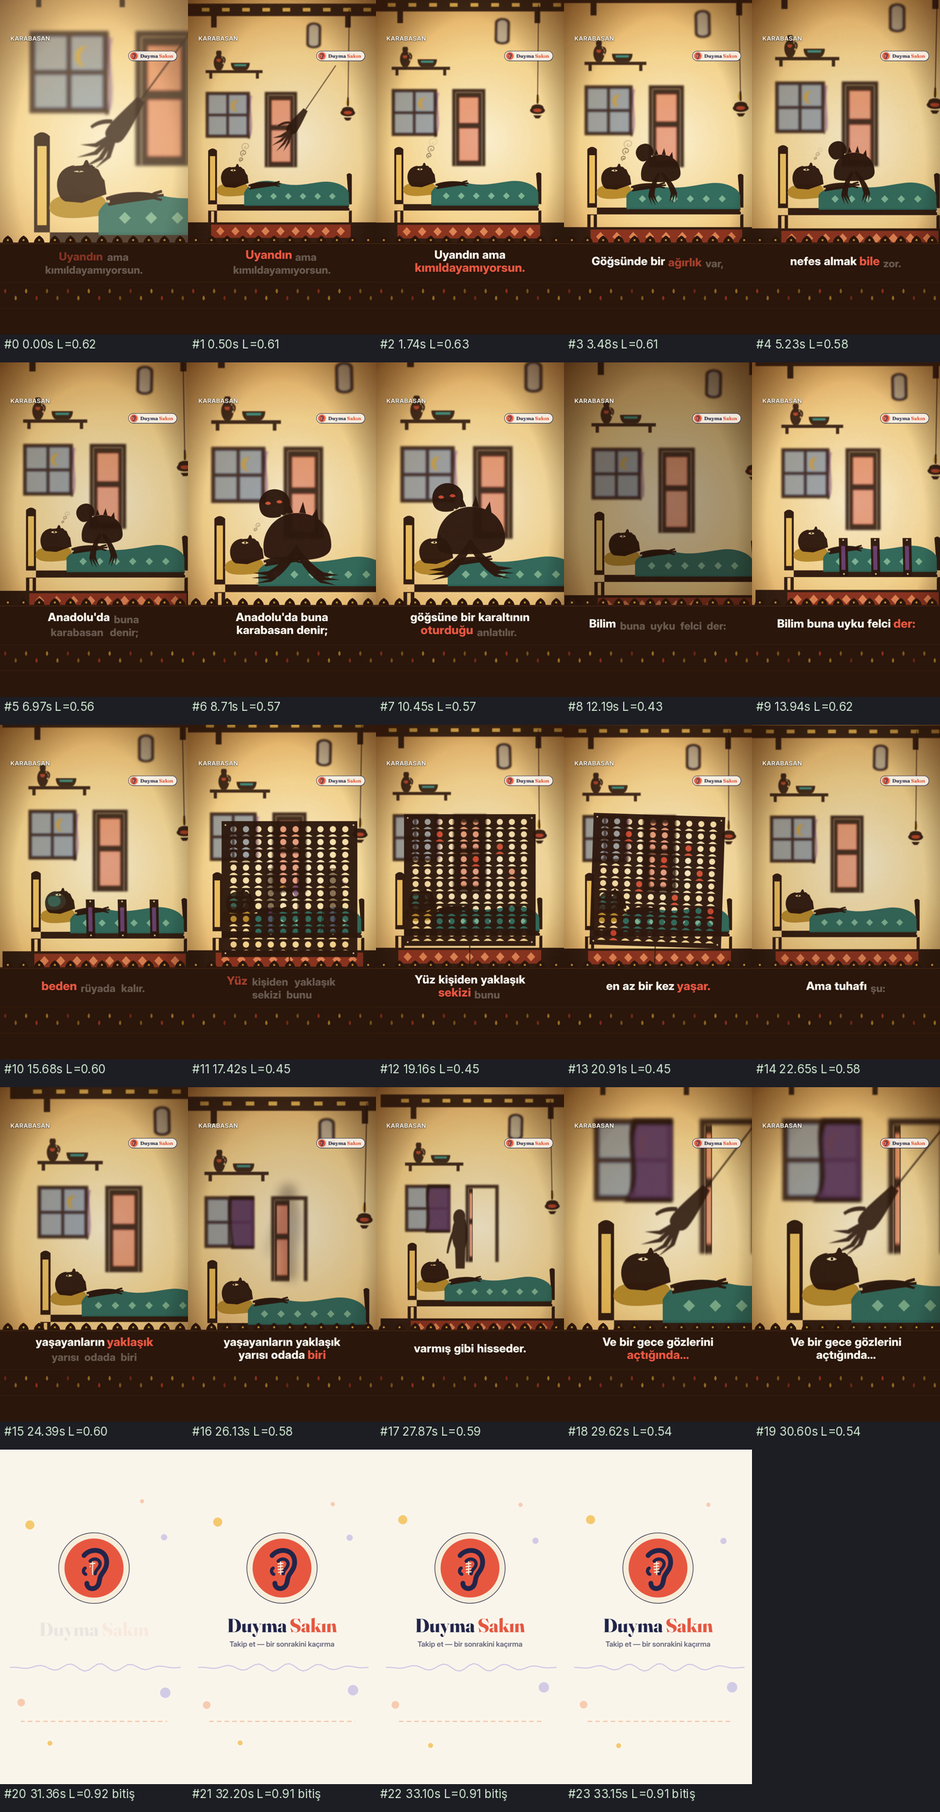
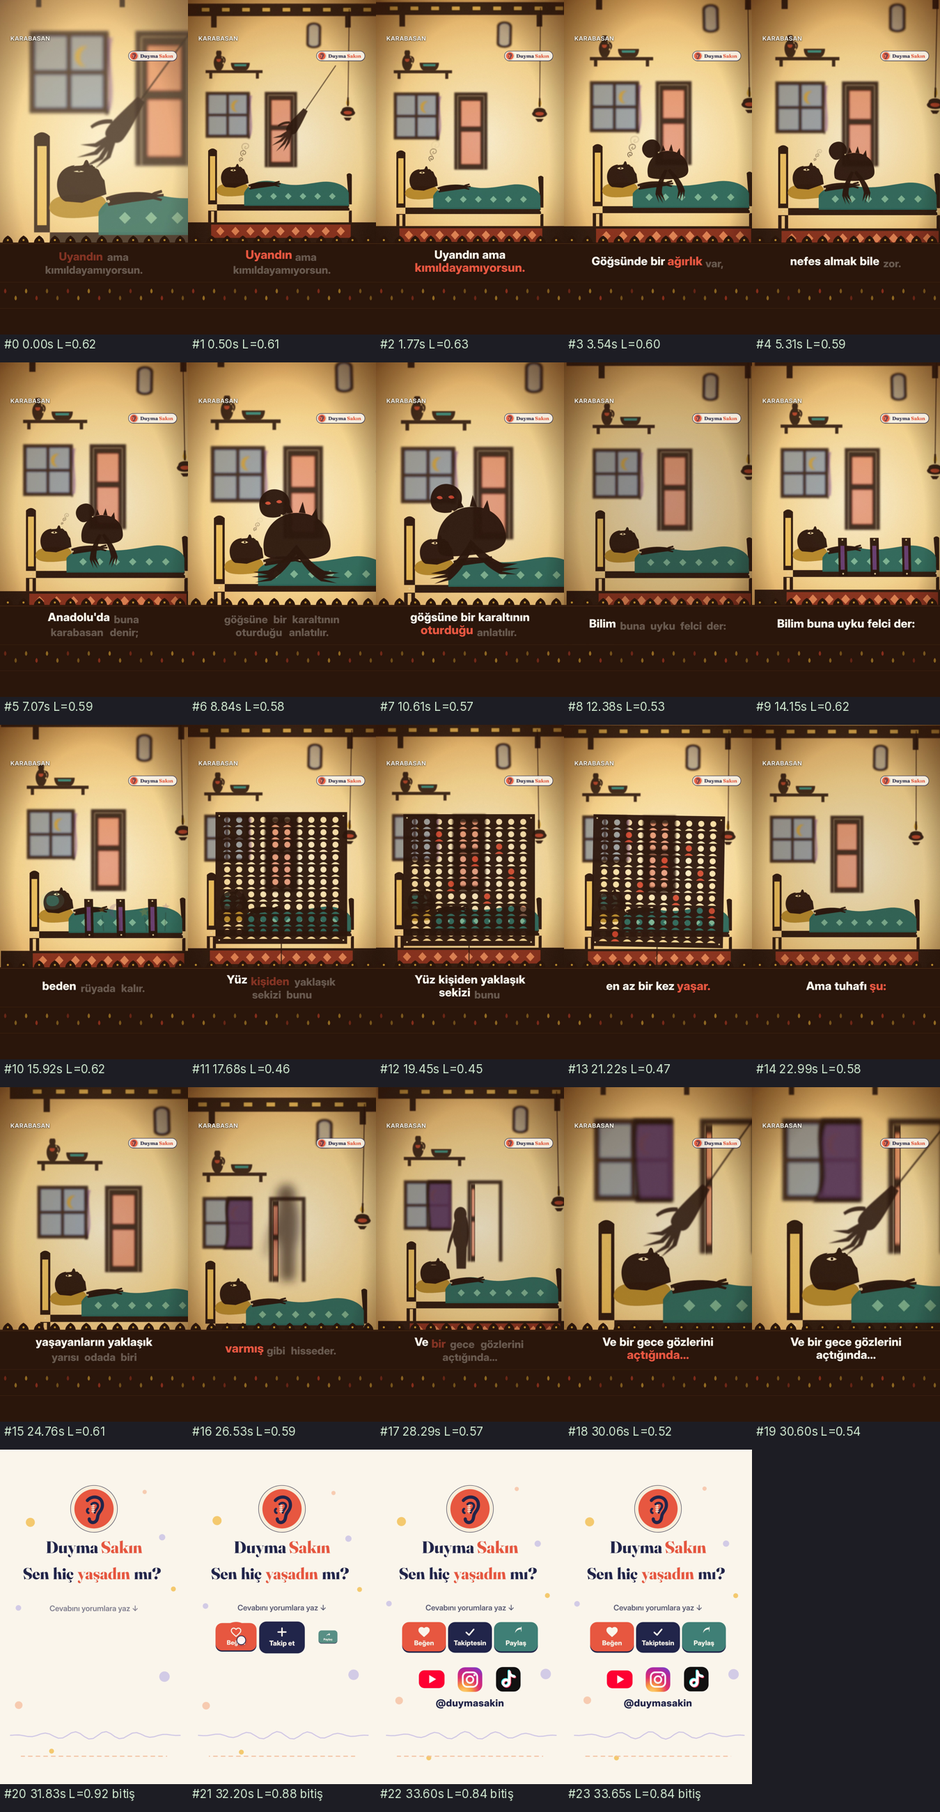
Hareketli bitiş ekranı: soru, Beğen/Takip et/Paylaş dokunuşları, YouTube/Instagram/TikTok logoları, @duymasakin
Claude-Session: https://claude.ai/code/session_01WfPggS4dh4xhzWemV5wpkW

diff --git a/uretim/src/marka/BitisEkrani.tsx b/uretim/src/marka/BitisEkrani.tsx
@@ -1,4 +1,10 @@
-// Bitiş ekranı (2,5 sn) — kanal-kimligi'ndeki sıra: zemine açılış → rozet (dikişler) → ad → "Takip et".
+// BİTİŞ EKRANI (3 sn, 90 kare) — hareketli, her videoda aynı düzen (kullanıcı kararı 25.11.2026):
+//   0-6    son kare kâğıt zemine açılır          · 0-30  rozet logo belirir, dikişler "dikilir", ad gelir
+//   16-34  SORU kelime kelime (bolum.json → bitis.soru; yoksa "Beğen, takip et, paylaş!")  · 28-40 "Cevabını yorumlara yaz"
+//   34-48  Beğen / Takip et / Paylaş düğmeleri sırayla zıplar · DOKUNMA karelerinde parmak dokunuşu (kalp dolar,
+//          + işareti ✓ olur, paylaş oku uçar) — ses: "tik" efekti aynı karelerde (bolum.json → efektler)
+//   50-72  YouTube / Instagram / TikTok logoları sırayla yükselir + @duymasakin
+// Yerleşim platform düğmelerinden uzak: içerik x 150-930, y 200-1500. Dokunan parmak düğmeden düğmeye gider.
 import React from "react";
 import { interpolate } from "remotion";
 import { FONT } from "./fontlar";
@@ -6,41 +12,161 @@ import { Logo } from "./Logo";
 import { RENK } from "./yerlesim";
 import { firla, ilerle, kenet } from "../motor/yardimci";
 
+export const DOKUNMA = [44, 52, 60]; // bitiş ekranının kendi karesi; efekt yerleşimi bununla aynı olmalı
+
 const SEKILLER = [
   { x: 160, y: 420, r: 26, c: RENK.hardal }, { x: 930, y: 520, r: 18, c: RENK.lavanta }, { x: 120, y: 1450, r: 22, c: RENK.seftali },
-  { x: 960, y: 1380, r: 30, c: RENK.lavanta }, { x: 300, y: 1700, r: 14, c: RENK.hardal }, { x: 820, y: 300, r: 12, c: RENK.seftali },
+  { x: 960, y: 1300, r: 30, c: RENK.lavanta }, { x: 300, y: 1750, r: 14, c: RENK.hardal }, { x: 820, y: 230, r: 12, c: RENK.seftali },
+  { x: 90, y: 900, r: 16, c: RENK.lavanta }, { x: 990, y: 820, r: 14, c: RENK.hardal },
 ];
 
+// --- düğme simgeleri (24x24 kutuda)
+const Kalp: React.FC<{ dolu: number }> = ({ dolu }) => (
+  <path d="M12 21 C 5 15 1 11.5 1 7.5 C 1 4.5 3.5 2 6.5 2 C 8.6 2 10.6 3.2 12 5 C 13.4 3.2 15.4 2 17.5 2 C 20.5 2 23 4.5 23 7.5 C 23 11.5 19 15 12 21 Z"
+    fill={dolu > 0.5 ? RENK.kagit : "none"} stroke={RENK.kagit} strokeWidth={2.4} strokeLinejoin="round" />
+);
+const Arti: React.FC<{ t: number }> = ({ t }) =>
+  t < 0.5 ? <path d="M12 4 V20 M4 12 H20" stroke={RENK.kagit} strokeWidth={3} strokeLinecap="round" />
+    : <path d="M4 12.5 L10 18 L20 6" fill="none" stroke={RENK.kagit} strokeWidth={3.2} strokeLinecap="round" strokeLinejoin="round" />;
+const Paylas: React.FC<{ t: number }> = ({ t }) => (
+  <g transform={`translate(${t * 6} ${-t * 6})`}>
+    <path d="M4 20 C 5 12 10 8 17 8 V3 L23 10 L17 17 V12 C 11 12 7 14 4 20 Z" fill={RENK.kagit} />
+  </g>
+);
+
+// --- platform logoları (sade, kodla çizilmiş; 100x100 kutu)
+const YouTube = () => (
+  <g><rect x={4} y={18} width={92} height={64} rx={20} fill="#FF0033" /><path d="M41 35 L66 50 L41 65 Z" fill="#fff" /></g>
+);
+const Instagram = () => (
+  <g>
+    <defs>
+      <radialGradient id="ig-g" cx="25%" cy="105%" r="130%">
+        <stop offset="0%" stopColor="#FFD776" /><stop offset="25%" stopColor="#F9A040" /><stop offset="50%" stopColor="#E1306C" />
+        <stop offset="75%" stopColor="#B5279C" /><stop offset="100%" stopColor="#5B4FE0" />
+      </radialGradient>
+    </defs>
+    <rect x={6} y={6} width={88} height={88} rx={26} fill="url(#ig-g)" />
+    <rect x={24} y={24} width={52} height={52} rx={16} fill="none" stroke="#fff" strokeWidth={6} />
+    <circle cx={50} cy={50} r={12} fill="none" stroke="#fff" strokeWidth={6} /><circle cx={66} cy={34} r={4} fill="#fff" />
+  </g>
+);
+const TikTok = () => {
+  const nota = (dx: number, dy: number, c: string) => (
+    <g transform={`translate(${dx} ${dy})`} fill="none" stroke={c} strokeWidth={9} strokeLinecap="round">
+      <path d="M54 22 V62" /><circle cx={42} cy={63} r={11} /><path d="M54 24 C 56 33 63 39 72 40" />
+    </g>
+  );
+  return (
+    <g><rect x={6} y={6} width={88} height={88} rx={24} fill="#111" />{nota(-2, -2, "#25F4EE")}{nota(2, 2, "#FE2C55")}{nota(0, 0, "#fff")}</g>
+  );
+};
+
+const DW = 252, DH = 168;
+const DUGME_X = [150, 414, 678]; // sol kenarlar (genişlik 252, aralık 12) → 150..930
+
+const Dugme: React.FC<{ f: number; bas: number; dokun: number; renk: string; yazi: string; ikon: (t: number) => React.ReactNode }> = ({ f, bas, dokun, renk, yazi, ikon }) => {
+  const g = ilerle(f, bas, bas + 10, firla);
+  const t = ilerle(f, dokun, dokun + 4);
+  const bas2 = f >= dokun && f < dokun + 6 ? 0.92 + 0.08 * ((f - dokun) / 6) : 1; // basılma
+  const halka = ilerle(f, dokun, dokun + 12);
+  return (
+    <div style={{ position: "relative", width: DW, height: DH, transform: `scale(${g * bas2})`, opacity: Math.min(1, g * 2) }}>
+      {halka > 0 && halka < 1 ? (
+        <div style={{ position: "absolute", left: DW / 2 - 90 * (1 + halka), top: DH / 2 - 90 * (1 + halka), width: 180 * (1 + halka), height: 180 * (1 + halka),
+          borderRadius: "50%", border: `8px solid ${renk}`, opacity: 1 - halka }} />
+      ) : null}
+      <div style={{ position: "absolute", inset: 0, background: renk, borderRadius: 40, display: "flex", flexDirection: "column", alignItems: "center",
+        justifyContent: "center", gap: 6, boxShadow: `0 8px 0 ${RENK.lacivert}` }}>
+        <svg width={64} height={64} viewBox="0 0 24 24">{ikon(t)}</svg>
+        <span style={{ fontFamily: FONT.metin, fontWeight: 800, fontSize: 38, color: RENK.kagit, whiteSpace: "nowrap" }}>{yazi}</span>
+      </div>
+    </div>
+  );
+};
+
 /** f: bitiş ekranının kendi karesi (0'dan başlar). */
-export const BitisEkrani: React.FC<{ f: number }> = ({ f }) => {
+export const BitisEkrani: React.FC<{ f: number; soru?: string; vurgu?: string }> = ({ f, soru, vurgu }) => {
   const zemin = interpolate(f, [0, 6], [0, 1], kenet);
-  const logo = ilerle(f, 6, 22, firla);
-  const dikis = ilerle(f, 12, 36);
-  const ad = ilerle(f, 18, 30);
-  const takip = ilerle(f, 30, 42);
+  const logo = ilerle(f, 0, 14, firla);
+  const dikis = ilerle(f, 10, 30);
+  const ad = ilerle(f, 10, 22);
+  const kelimeler = (soru ?? "Beğen, takip et, paylaş!").split(" ");
+  const alt = ilerle(f, 28, 40);
+  const handle = ilerle(f, 62, 72);
   return (
     <div style={{ position: "absolute", inset: 0, background: RENK.kagit, opacity: zemin }}>
       <svg width={1080} height={1920} style={{ position: "absolute", inset: 0 }}>
         {SEKILLER.map((s, i) => (
-          <circle key={i} cx={s.x + Math.sin(f * 0.05 + i) * 14} cy={s.y + Math.cos(f * 0.04 + i * 2) * 18} r={s.r} fill={s.c} opacity={0.8} />
+          <circle key={i} cx={s.x + Math.sin(f * 0.06 + i) * 16} cy={s.y + Math.cos(f * 0.05 + i * 2) * 20} r={s.r} fill={s.c} opacity={0.8} />
         ))}
-        {/* ses dalgası deseni */}
-        <path d={Array.from({ length: 40 }, (_, i) => `${i ? "L" : "M"}${60 + i * 25},${1250 + Math.sin(i * 0.9 + f * 0.25) * 22 * Math.sin((i / 39) * Math.PI)}`).join(" ")}
+        <path d={Array.from({ length: 40 }, (_, i) => `${i ? "L" : "M"}${60 + i * 25},${1640 + Math.sin(i * 0.9 + f * 0.3) * 22 * Math.sin((i / 39) * Math.PI)}`).join(" ")}
           fill="none" stroke={RENK.lavanta} strokeWidth={6} strokeLinecap="round" opacity={0.9} />
-        {/* dikiş çizgisi */}
-        <path d="M120 1560 L960 1560" stroke={RENK.seftali} strokeWidth={6} strokeDasharray="26 18" strokeDashoffset={-f * 2} />
+        <path d="M120 1760 L960 1760" stroke={RENK.seftali} strokeWidth={6} strokeDasharray="26 18" strokeDashoffset={-f * 2.5} />
       </svg>
-      <div style={{ position: "absolute", left: 0, right: 0, top: 470, display: "flex", justifyContent: "center",
-        transform: `scale(${0.8 + 0.2 * logo})`, opacity: Math.min(1, logo * 1.4) }}>
-        <Logo boyut={420} dikis={dikis} />
+      {/* rozet + ad */}
+      <div style={{ position: "absolute", left: 0, right: 0, top: 200, display: "flex", justifyContent: "center",
+        transform: `scale(${0.7 + 0.3 * logo}) rotate(${(1 - logo) * -20}deg)`, opacity: Math.min(1, logo * 1.5) }}>
+        <Logo boyut={280} dikis={dikis} />
       </div>
-      <div style={{ position: "absolute", left: 0, right: 0, top: 940, textAlign: "center", fontFamily: FONT.baslik, fontWeight: 800,
-        fontSize: 110, opacity: ad, transform: `translateY(${(1 - ad) * 24}px)` }}>
+      <div style={{ position: "absolute", left: 0, right: 0, top: 500, textAlign: "center", fontFamily: FONT.baslik, fontWeight: 800,
+        fontSize: 96, opacity: ad, transform: `translateY(${(1 - ad) * 20}px)` }}>
         <span style={{ color: RENK.lacivert }}>Duyma </span><span style={{ color: RENK.mercan }}>Sakın</span>
       </div>
-      <div style={{ position: "absolute", left: 0, right: 0, top: 1090, textAlign: "center", fontFamily: FONT.metin, fontWeight: 600,
-        fontSize: 42, color: RENK.lacivert, opacity: 0.7 * takip }}>
-        Takip et — bir sonrakini kaçırma
+      {/* soru */}
+      <div style={{ position: "absolute", left: 120, right: 120, top: 660, textAlign: "center", fontFamily: FONT.baslik, fontWeight: 800,
+        fontSize: 92, lineHeight: 1.1, color: RENK.lacivert }}>
+        {kelimeler.map((k, i) => {
+          const t = ilerle(f, 16 + i * 3, 24 + i * 3, firla);
+          const v = vurgu && k.toLocaleLowerCase("tr-TR").startsWith(vurgu.toLocaleLowerCase("tr-TR"));
+          return <span key={i} style={{ display: "inline-block", marginRight: "0.25em", color: v ? RENK.mercan : RENK.lacivert,
+            opacity: Math.min(1, t * 1.5), transform: `translateY(${(1 - t) * 40}px) scale(${0.6 + 0.4 * t})` }}>{k}</span>;
+        })}
+      </div>
+      {soru ? (
+        <div style={{ position: "absolute", left: 0, right: 0, top: 880, textAlign: "center", fontFamily: FONT.metin, fontWeight: 600,
+          fontSize: 44, color: RENK.lacivert, opacity: 0.75 * alt, transform: `translateY(${(1 - alt) * 16}px)` }}>
+          Cevabını yorumlara yaz ↓
+        </div>
+      ) : null}
+      {/* eylem düğmeleri */}
+      <div style={{ position: "absolute", left: 150, width: 780, top: 990, display: "flex", justifyContent: "space-between" }}>
+        <Dugme f={f} bas={34} dokun={DOKUNMA[0]} renk={RENK.mercan} yazi="Beğen" ikon={(t) => <Kalp dolu={t} />} />
+        <Dugme f={f} bas={39} dokun={DOKUNMA[1]} renk={RENK.lacivert} yazi={f >= DOKUNMA[1] + 2 ? "Takiptesin" : "Takip et"} ikon={(t) => <Arti t={t} />} />
+        <Dugme f={f} bas={44} dokun={DOKUNMA[2]} renk={RENK.teal} yazi="Paylaş" ikon={(t) => <Paylas t={t} />} />
+      </div>
+      {/* dokunan parmak: düğmeden düğmeye gider, DOKUNMA karelerinde basar */}
+      {(() => {
+        if (f < DOKUNMA[0] - 8 || f > DOKUNMA[2] + 10) return null;
+        const hedef = (k: number) => ({ x: DUGME_X[k] + DW * 0.62, y: 990 + DH * 0.62 });
+        let p = hedef(0);
+        for (let k = 1; k < 3; k++) {
+          const t = ilerle(f, DOKUNMA[k - 1] + 2, DOKUNMA[k] - 1);
+          const a = hedef(k - 1), b = hedef(k);
+          if (f > DOKUNMA[k - 1] + 2) p = { x: a.x + (b.x - a.x) * t, y: a.y + (b.y - a.y) * t - Math.sin(t * Math.PI) * 40 };
+        }
+        const gir = ilerle(f, DOKUNMA[0] - 8, DOKUNMA[0]);
+        const bas = DOKUNMA.some((d) => f >= d && f < d + 4) ? 0.8 : 1;
+        const cik = 1 - ilerle(f, DOKUNMA[2] + 4, DOKUNMA[2] + 10);
+        return <div style={{ position: "absolute", left: p.x - 34, top: p.y - 34 + (1 - gir) * 120, width: 68, height: 68, borderRadius: "50%",
+          background: "rgba(255,255,255,0.92)", border: `5px solid ${RENK.lacivert}`, boxShadow: "0 6px 14px rgba(34,38,74,0.35)",
+          transform: `scale(${bas})`, opacity: Math.min(gir, cik) }} />;
+      })()}
+      {/* sosyal medya logoları */}
+      <div style={{ position: "absolute", left: 0, right: 0, top: 1236, display: "flex", justifyContent: "center", gap: 60 }}>
+        {[YouTube, Instagram, TikTok].map((L, i) => {
+          const t = ilerle(f, 50 + i * 5, 62 + i * 5, firla);
+          return (
+            <svg key={i} width={160} height={160} viewBox="0 0 100 100" style={{ opacity: Math.min(1, t * 1.6),
+              transform: `translateY(${(1 - t) * 80 + Math.sin(f * 0.15 + i) * 4}px) rotate(${(1 - t) * (i - 1) * 20}deg)` }}>
+              <L />
+            </svg>
+          );
+        })}
+      </div>
+      <div style={{ position: "absolute", left: 0, right: 0, top: 1420, textAlign: "center", fontFamily: FONT.metin, fontWeight: 800,
+        fontSize: 56, letterSpacing: 1, color: RENK.lacivert, opacity: handle, transform: `translateY(${(1 - handle) * 16}px)` }}>
+        @duymasakin
       </div>
     </div>
   );

diff --git a/uretim/src/bolumler/b001/Video.tsx b/uretim/src/bolumler/b001/Video.tsx
@@ -43,15 +43,11 @@ const kamera = (f: number) => {
 };
 
 export const B001: React.FC<{ temiz?: boolean }> = ({ temiz = false }) => {
-  const f = useCurrentFrame();
+  const gercek = useCurrentFrame();
   const bitis = zaman.bitis;
-  if (f >= bitis) {
-    return (
-      <AbsoluteFill>
-        <BitisEkrani f={f - bitis} />
-      </AbsoluteFill>
-    );
-  }
+  const bitisEkrani = gercek >= bitis ? <BitisEkrani f={gercek - bitis} soru={bolum.bitis?.soru} vurgu={bolum.bitis?.vurgu} /> : null;
+  if (gercek >= bitis + 6) return <AbsoluteFill>{bitisEkrani}</AbsoluteFill>;
+  const f = Math.min(gercek, bitis - 1); // bitiş geçişinde son kare donar, kâğıt zemin üstüne açılır
   // --- ışık
   let isik = interpolate(f, [0, 10], [1.22, 1], kenet); // ilk kare: parlak flaş
   const lt = O["lamba-titrer"];
@@ -220,6 +216,7 @@ export const B001: React.FC<{ temiz?: boolean }> = ({ temiz = false }) => {
           <Altyazi f={f} parcalar={zaman.altyazi as AltyaziParca[]} />
         </>
       )}
+      {bitisEkrani}
     </AbsoluteFill>
   );
 };

diff --git a/uretim/src/marka/yerlesim.ts b/uretim/src/marka/yerlesim.ts
@@ -28,4 +28,4 @@ export const KAPAK_KIRP = { x: 0, y: 300, w: 1080, h: 1130 };
 /** Filigran (kanal-kimligi): yükseklik 64, sağdan 60, üstten 290. */
 export const FILIGRAN = { h: 64, w: 284, sag: 60, ust: 290, opaklik: 0.9 };
 
-export const BITIS_SN = 2.5;
+export const BITIS_SN = 3.0; // bitiş ekranı (BitisEkrani.tsx, 90 kare)

diff --git a/araclar/bolum_hazirla.py b/araclar/bolum_hazirla.py
@@ -23,7 +23,7 @@ FPS = 30
 KOK = Path(__file__).resolve().parent.parent
 FONT = KOK / "marka/fontlar/Inter[opsz,wght].ttf"
 ALTYAZI_BOYUT, ALTYAZI_GENISLIK, EN_FAZLA_SATIR, EN_FAZLA_KELIME = 66, 800, 2, 5
-BITIS_SN, SON_BEKLEME_SN = 2.5, 0.45
+BITIS_SN, SON_BEKLEME_SN = 3.0, 0.45  # uretim/src/marka/yerlesim.ts BITIS_SN ile aynı
 
 def tr_kucuk(s):
     return s.replace("I", "ı").replace("İ", "i").lower()

diff --git a/.claude/skills/kanal-kimligi/SKILL.md b/.claude/skills/kanal-kimligi/SKILL.md
@@ -80,13 +80,17 @@ Kurallar:
 - **Üst:** yalnız kısa başlık (Inter 700, 34 px, `kâğıt` + koyu gölge, x 60, y 200, en fazla 24 karakter). **Süre/ilerleme çubuğu YOK.**
 - **Alt:** her stil motoru ekranın altına (y ≥ 1392) kamerayla hareket etmeyen **sabit ön katman** çizer (gölge oyununda oymalı koyu sahne tahtası). Altyazı bunun üstünde, yatayda tam ortada durur (bkz. `altyazi`).
 
-## Bitiş ekranı (2,5 sn, 1080x1920)
-1. 0,0 s: Hikâyenin son karesi 6 karede `kâğıt` zemine açılır (beyaz flaş değil, yumuşak geçiş); tek bir alçak "nefes" sesi.
-2. 0,2 s: Rozet logo 0,8→1,0 ölçekle belirir (merkez, 420 px); krem dikiş çizgileri sırayla "dikilir".
-3. 0,6 s: Altında "Duyma" (lacivert) "Sakın" (mercan), Fraunces 800, 110 px.
-4. 1,0 s: Altında "Takip et — bir sonrakini kaçırma" (Inter 600, 42 px, lacivert %70).
-5. Zeminde banner desenindeki şekiller (ses dalgası, dikiş, nokta) hafifçe süzülür.
-6. 2,5 s: Son kare; döngü başına sert kesme.
+## Bitiş ekranı (3 sn, 90 kare, HAREKETLİ) — kullanıcı kararı 25.11.2026
+Kod: `uretim/src/marka/BitisEkrani.tsx` (her videoda aynı; bölüm yalnız soruyu verir: `bolum.json → bitis {soru, vurgu}`).
+1. 0-6: Hikâyenin son karesi donar ve `kâğıt` zemine yumuşakça açılır (beyaz flaş yok); "nefes" efekti.
+2. 0-30: Rozet logo dönerek büyür (280 px), krem dikişler sırayla "dikilir"; altında "Duyma **Sakın**" (Fraunces 800, 96 px).
+3. 16-34: **Soru** kelime kelime zıplar (Fraunces 800, 92 px, vurgu kelimesi mercan), ör. "Sen hiç **yaşadın** mı?"; altında "Cevabını yorumlara yaz ↓". Soru yoksa başlık "Beğen, takip et, paylaş!".
+4. 34-48: **Beğen** (mercan, kalp) · **Takip et** (lacivert, +) · **Paylaş** (teal, ok) düğmeleri sırayla zıplar.
+5. 44 / 52 / 60: Dokunan "parmak" düğmeden düğmeye gider ve basar: kalp dolar, + → ✓ "Takiptesin", paylaş oku uçar; halka dalgası. Her dokunuşta "tik" efekti (aynı kare; `BitisEkrani.DOKUNMA`).
+6. 50-72: **YouTube, Instagram, TikTok** logoları sırayla yükselir, hafifçe süzülür; altında **@duymasakin**.
+7. Zeminde ses dalgası, kayan dikiş çizgisi, süzülen noktalar sürekli hareket eder. 90. karede döngü başına sert kesme.
+- İçerik x 150-930, y 200-1500 (platform düğmeleri ve alt yazı alanından uzak).
+- Platform logoları sade, kodla çizilmiş "bizi burada bul" işaretleridir; değiştirilmez, başka marka eklenmez.
 
 ## Kapak (1080x1920) — SABİT ŞABLON (kullanıcı onaylı format, 25.11.2026)
 Kod: `uretim/src/marka/Kapak.tsx` (bölüm başına yalnız veri değişir: `bolum.json → kapak`). Örnek: `bolumler/001-karabasan/cikti/kapak.png`.

diff --git a/CLAUDE.md b/CLAUDE.md
@@ -14,7 +14,7 @@ Kullanıcının ilk ve tam isteği: `belgeler/ilk-istek.md`. Kurallar ve sıra o
 ## Değişmez kurallar
 1. **Kanca:** İlk cümle ≤7 kelime, şaşırtıcı iddia ya da soru, mümkünse "sen". Tarihle, yerle ya da "Bir zamanlar" ile başlama.
 2. **İlk kare:** En çarpıcı ve parlak kare; ilk 0,5 sn'de büyük hareket. Logo ile açılış yok.
-3. **Tempo:** Her ~2 sn'de yeni görsel olay; boş panel/köşe yok. Son cümle başa bağlanır (döngü), ardından 2-3 sn bitiş ekranı.
+3. **Tempo:** Her ~2 sn'de yeni görsel olay; boş panel/köşe yok. Son cümle başa bağlanır (döngü), ardından 3 sn **hareketli** bitiş ekranı: soru + Beğen/Takip et/Paylaş + YouTube/Instagram/TikTok logoları + @duymasakin.
 4. **Ekran:** **Tam ekran** çizim (çerçeve yok). Üstte yalnız kısa başlık (süre/ilerleme çubuğu YOK). Kelime kelime altyazı **yatayda ortada**, stilin sabit ön katmanının üstünde; **çizimin üstüne binmez**; sayılar yazıyla.
 5. **Ses:** 5-8 gerçekçi efekt (komik yok), her efekt olayla aynı karede (ölçerek). Müzik çok kısık. Son ses ≈ -14 LUFS, tepe ≤ -1 dBTP.
 6. **Doğruluk:** Her bilgiyi web'den doğrula; kesin değilse "anlatılır". Sayıların kaynağını kaydet. Gerçek kişiyi karalama, ölümü istismar etme, tehlikeye özendirme.
@@ -66,7 +66,7 @@ Kullanıcının ilk ve tam isteği: `belgeler/ilk-istek.md`. Kurallar ve sıra o
 - ✅ ElevenLabs: Starter plan, aylık 40.000 kredi (ticari kullanım dahil), yenilenme 24.12.2026. Anlatıcı sesi: **Emin** (3 numara, `2olWvHmrPO1obgZX9ivZ`), bütün cümleler — `ses` skill'i.
 - ✅ 4. adım: 7 kendi skill'i + araçlar + Remotion üretim projesi + stil kütüphanesi (30 sayfa; motor: gölge oyunu).
 - ✅ Kapak formatı kullanıcıyla belirlendi: etiket hapı · 2 satır · çerçeveli sahne kartı · logo/numara/İZLE şeridi (`kanal-kimligi`).
-- ✅ 5. adım: deneme videosu `bolumler/001-karabasan` (33,2 sn, tam ekran, Emin, -14,6 LUFS, -1,2 dBTP, 24 kare kontrol temiz, 17 efekt yerleşimi ±0,1 kare). **Yüklenmedi, takvime eklenmedi.**
+- ✅ 5. adım: deneme videosu `bolumler/001-karabasan` (33,7 sn, tam ekran, Emin, hareketli bitiş, -14,8 LUFS, -1,3 dBTP, 24 kare kontrol temiz, 20 efekt yerleşimi ±0,1 kare). **Yüklenmedi, takvime eklenmedi.**
 - ⚠ Depo herkese açık olabilir; kullanıcıdan Private yapması istendi — kontrol et.
 - ⏳ Sıradaki: kullanıcı geri bildirimi → yükleme tarihi (onayla) → 2. video (farklı stil, `stil-kutuphanesi/gecmis.csv`).
 - Git: bu oturumun dalı `ccr-cac89f1a-do5gc6` (önceki dal `claude/githupa-baglan-youtube-repo-6dwnvh`).

diff --git a/.claude/skills/video-uretim/SKILL.md b/.claude/skills/video-uretim/SKILL.md
@@ -45,7 +45,7 @@ python3 araclar/kontrol_panosu.py $B/cikti/002-konu.mp4 --kare 20
 - Tam ekran çizim, üstte yalnız kısa başlık, altyazı ortada ve sabit ön katmanın üstünde.
 - Kanca ≤7 kelime, "sen"; ilk kare en parlak ve çarpıcı, 0,5 sn'de büyük hareket; logo ile açılış yok.
 - 25-35 sn; ~2 sn'de bir yeni görsel olay (bolum_hazirla tempo uyarısı); boş köşe yok.
-- Son cümle ilk cümleye bağlanır; ilk ve son kare aynı kadraj (döngü); sonra 2,5 sn bitiş ekranı.
+- Son cümle ilk cümleye bağlanır; ilk ve son kare aynı kadraj (döngü); sonra 3 sn hareketli bitiş ekranı (soru + Beğen/Takip et/Paylaş + platform logoları; `bolum.json → bitis.soru`, dokunuş efekti `tik` olay `bitis` kayma 44, tekrar 3×8).
 - En az 3 derinlik katmanı, sürekli hafif kamera kayması, ekranda gereksiz yazı yok.
 
 ## Bilinen tuzaklar
@@ -69,5 +69,6 @@ python3 araclar/kontrol_panosu.py $B/cikti/002-konu.mp4 --kare 20
 | Tek ses yerine iki ses istendi (gerilim/anlatıcı) | Mevcut kayıt hizalamayla kesilip önbelleğe kondu; yalnız yeni rolün cümleleri üretildi (190 karakter) |
 | Kullanıcı süre çubuğunu, çerçeveyi ve ikinci sesi istemedi | Tam ekran çizim + sabit ön katman (altyazı zemini), yalnız başlık, tek ses Emin. Eski Emin kaydı önbellekten kullanıldı (0 kredi) |
 | Tam ekranda başlık raftaki çizime biniyordu | Üst sol köşede (x 60-260, y 190-250) figür koyma |
+| Bitiş ekranının ilk karesi siyahtı (zemin opaklığı 0) | Son hikâye karesi donar, bitiş ekranı üstüne açılır (Video.tsx) |
 | Tam ekran yazılı kapak istenmedi | Sabit kapak şablonu: etiket · 2 satır · çerçeveli sahne kartı · logo şeridi (kanal-kimligi) |
 | Loudnorm sonrası sınırlayıcı sonucu -14,9 LUFS'a çekiyor | ±1 LU içinde; daha yakın istenirse loudnorm hedefini -13,5 yap |

diff --git a/.claude/skills/senaryo/SKILL.md b/.claude/skills/senaryo/SKILL.md
@@ -41,5 +41,5 @@ Kurallar:
 - Cümleler kısa; virgülde altyazı parçası biter.
 
 ## 4. bolum.json alanları
-`cumleler` (dizi), `olaylar` ({ad, cumle, kelime, kayma}), `efektler` ({ad, olay, sure, db, tarif, tekrar?}), `kapak` ({satir1, satir2 ≤10 karakter}), `bant_baslik` (≤24 karakter), `stil`, `ses` (kanal sesi Emin; `cumle_sesleri` hepsi `gerilim` — bkz. `ses`).
+`cumleler` (dizi), `olaylar` ({ad, cumle, kelime, kayma}), `efektler` ({ad, olay, sure, db, tarif, tekrar?}), `kapak` ({satir1, satir2 ≤10 karakter, etiket, zemin_kare, renk, desen}), `bitis` ({soru: izleyiciye yorum sorusu, vurgu: mercan kelime}), `bant_baslik` (≤24 karakter), `stil`, `ses` (kanal sesi Emin; `cumle_sesleri` hepsi `gerilim` — bkz. `ses`).
 Örnek: `bolumler/001-karabasan/bolum.json`.
